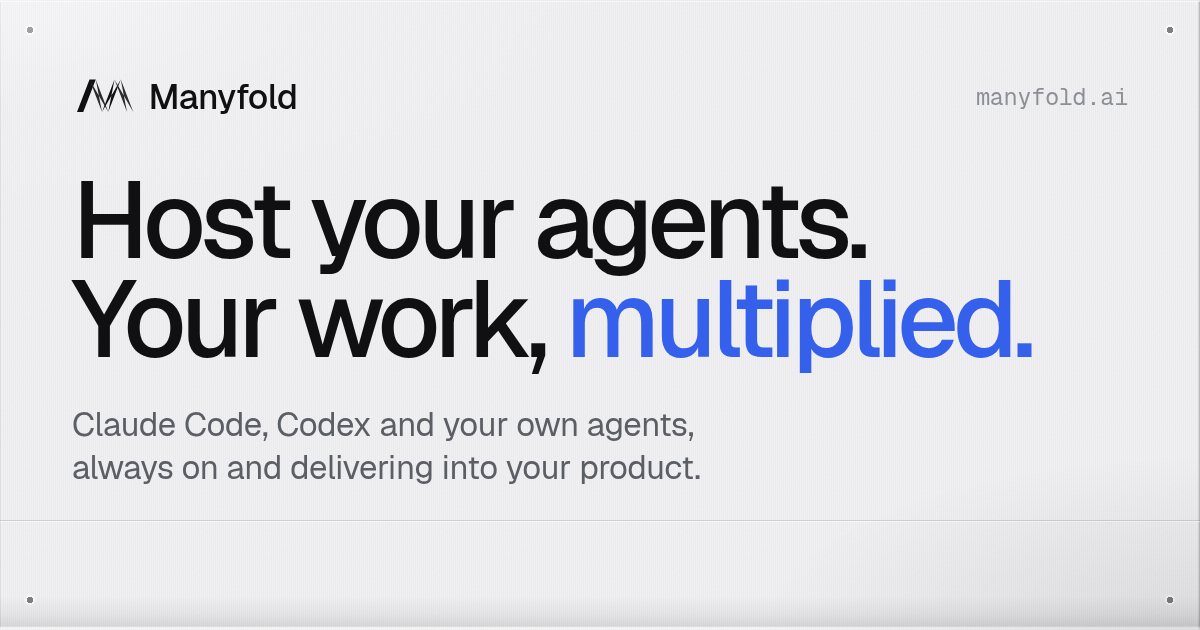
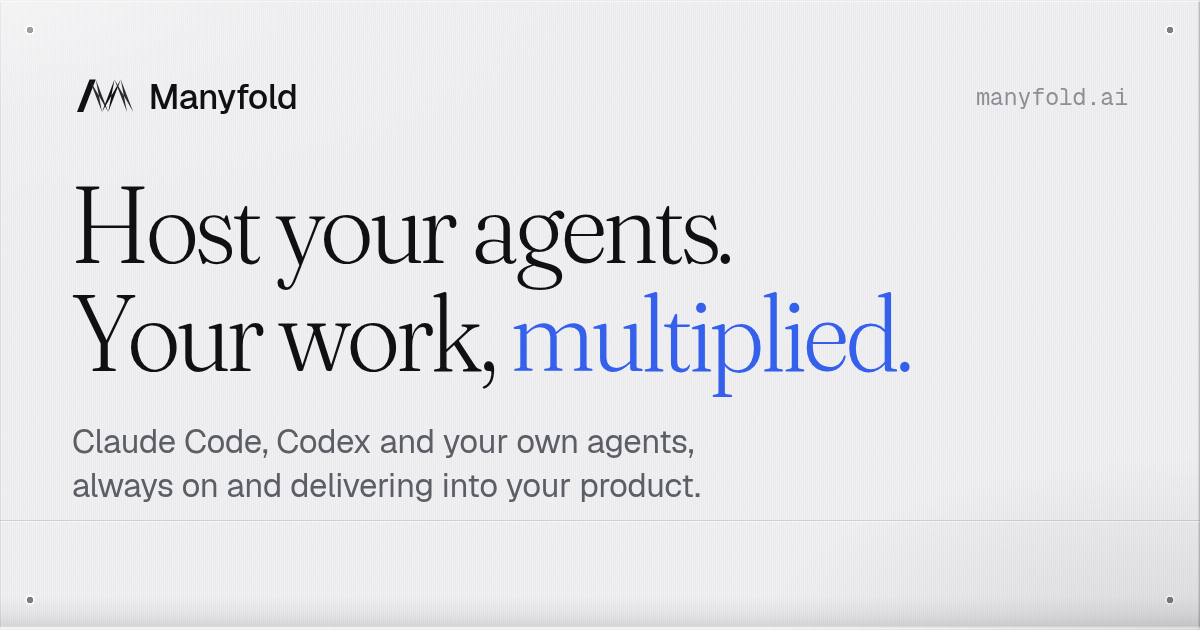
feat(web): land Fraunces as the landing's display face
The spec has said Fraunces since it was written — SOFT 50, WONK 0, weight 300
— but styles.css imported Source Serif 4, and had since the register was
built. A plan was written down and never executed. The two are not the same
kind of serif: Fraunces is a high-contrast display face drawn for large sizes,
Source Serif 4 is a low-contrast text face Adobe drew for screen body copy, so
every rule downstream of that choice was tuned for a face the page did not use.

Loads full.css, not opsz.css: Fraunces carries four axes and this register uses
SOFT, which the narrower file leaves inert with no error. Weight drops to 300,
where a display serif sits at the visual mass a text serif needs 400 for, with
.lp-h3 overridden back to 400 — at 24-29px the thin strokes stop carrying.

The social cards follow, since they reproduce the hero: someone clicking a
shared link must not meet a different face on arrival. The zh card gains a
pinned Noto Serif SC so its headline is a serif too, matching the landing's CJK
fallback rather than staying on the sans it had. Cards ship as v5; v4 never
left this branch, so it is dropped rather than frozen — RETIRED_CARDS is for
URLs a client may actually hold.

FontPin.weight now takes a range, which a variable face has to advertise or the
browser picks the default instance and synthesises the rest.

Source Serif 4 is removed; nothing else used it.

Changed region(s): [[0.0617, 0.2714, 0.8633, 0.6333], [0.0617, 0.6333, 0.5858, 0.8143]]

diff --git a/apps/web/src/styles.css b/apps/web/src/styles.css
@@ -8,11 +8,12 @@
 @import '@fontsource/geist/600.css';
 @import '@fontsource/geist-mono/400.css';
 @import '@fontsource/geist-mono/500.css';
-/* Display register for the landing only (DESIGN.landing.md §2.2). opsz.css
-   carries the optical-size axis, so the hero takes the display cut and card
-   titles the text cut off one file. The family name is 'Source Serif 4
-   Variable' — dropping the suffix falls back to a CJK serif in silence. */
-@import '@fontsource-variable/source-serif-4/opsz.css';
+/* Display register for the landing only (DESIGN.landing.md §2.2). full.css,
+   not opsz.css: Fraunces carries four axes and the register uses SOFT as well
+   as opsz, so the narrower file would leave SOFT inert with no error. The
+   family name is 'Fraunces Variable' — dropping the suffix falls back to a CJK
+   serif in silence. */
+@import '@fontsource-variable/fraunces/full.css';
 
 @tailwind base;
 @tailwind components;
@@ -2208,15 +2209,18 @@ html[data-theme='dark'] .markdown-code-block .hljs-deletion {
 
     /* Display register (DESIGN.landing.md §2.3). Sizes are ladder × family
        factor, so swapping the face later does not mean re-tuning every
-       clamp(). Source Serif 4 is a transitional: vertical stress, flat
-       serifs, terminals that stop rather than curl — the same rationale as
-       the printed world beside it. Weight 400 is not bolding; at matching
-       visual mass this face sits a step lighter than a display serif, and
-       the hero has to win the first fixation against a screened plate. */
+       clamp(). Fraunces is a display serif with an oversized x-height and
+       real modulation — it carries the headline on its own, which is what the
+       hero needs to win the first fixation against a screened plate. SOFT 50
+       rounds the terminals just off the blade, so the face reads warm rather
+       than editorial-severe; WONK stays 0 because its alternate g and italic-
+       leaning forms are a voice this page does not use. Weight 300, not 400:
+       a display serif already sits heavier than a text one at equal mass. */
     --lp-display:
-        'Source Serif 4 Variable', 'Source Han Serif SC', 'Noto Serif SC',
+        'Fraunces Variable', 'Source Han Serif SC', 'Noto Serif SC',
         'Songti SC', 'SimSun', serif;
-    --lp-display-weight: 400;
+    --lp-display-vars: 'SOFT' 50, 'WONK' 0;
+    --lp-display-weight: 300;
     --lp-display-track: -0.018em;
     --lp-display-lh: 1;
     --lp-display-scale: 1;
@@ -2433,6 +2437,7 @@ html[data-theme='dark'] .landing-root {
 .landing-root .lp-price-num {
     font-family: var(--lp-display);
     font-weight: var(--lp-display-weight);
+    font-variation-settings: var(--lp-display-vars);
     letter-spacing: var(--lp-display-track);
     line-height: var(--lp-display-lh);
     font-optical-sizing: auto;
@@ -2576,8 +2581,12 @@ html[data-theme='dark'] .landing-root .lp-eyebrow .lp-dot {
 
 /* Card titles hold at 400 and never drop below 24px: a high-contrast serif
    breaks into grey crumbs at small sizes (T1). */
+/* The one display element that does not take the base weight. At 24-29px a
+   display serif's thin strokes stop carrying: 300 reads as a hairline the
+   hero's 100px can afford and a card title cannot. */
 .landing-root .lp-h3 {
     font-size: calc(clamp(24px, 1.9vw, 29px) * var(--lp-display-scale));
+    font-weight: 400;
     letter-spacing: -0.008em;
     line-height: 1.14;
     color: var(--lp-ink);
@@ -3869,6 +3878,7 @@ html[lang^='zh'] .landing-root .lp-scene-title {
 
 .landing-root .lp-world [data-layer-title] text {
     font-family: var(--lp-display);
+    font-variation-settings: var(--lp-display-vars);
     font-size: 14px;
     font-weight: 500;
     letter-spacing: -0.01em;

diff --git a/apps/web/scripts/og/fonts.ts b/apps/web/scripts/og/fonts.ts
@@ -19,7 +19,10 @@ import { repoRoot, installedFile } from './paths'
 
 export interface FontPin {
     family: string
-    weight: number
+    // A range ('100 900') for a variable face: @font-face has to advertise the
+    // wght axis, or the browser picks the default instance and synthesises the
+    // rest, which on a display serif shows as smeared stems.
+    weight: number | string
     sha256: string
     // A workspace dependency, or a pinned upstream file fetched on demand.
     source:
@@ -28,6 +31,25 @@ export interface FontPin {
 }
 
 export const FONT_PINS: readonly FontPin[] = [
+    {
+        family: 'Fraunces Variable',
+        weight: '100 900',
[1 lines of base64/hex data omitted]
+        source: {
+            kind: 'package',
+            file: '@fontsource-variable/fraunces/files/fraunces-latin-full-normal.woff2'
+        }
+    },
+    {
+        family: 'Noto Serif SC',
+        weight: 400,
[1 lines of base64/hex data omitted]
+        source: {
+            kind: 'remote',
+            url: 'https://cdn.jsdelivr.net/npm/@fontsource/noto-serif-sc@5.3.0/files/noto-serif-sc-chinese-simplified-400-normal.woff2',
+            cache: 'noto-serif-sc-chinese-simplified-400-normal.woff2'
+        }
+    },
     {
         family: 'Geist',
         weight: 400,
@@ -78,7 +100,7 @@ export const FONT_PINS: readonly FontPin[] = [
 ]
 
 // Latin-only locales do not pay for the 1.1MB CJK faces.
-export const LATIN_FAMILIES = ['Geist', 'Geist Mono']
+export const LATIN_FAMILIES = ['Geist', 'Geist Mono', 'Fraunces Variable']
 
 export const fontsForLocale = (locale: 'en' | 'zh'): readonly FontPin[] =>
     locale === 'zh'

diff --git a/apps/web/scripts/og/poster.css b/apps/web/scripts/og/poster.css
@@ -238,9 +238,15 @@ body {
 .p-h1 {
     margin: 0;
     font-size: 108px;
-    font-weight: 500;
-    line-height: 0.92;
-    letter-spacing: -0.05em;
+    /* The landing's display register, verbatim (DESIGN.landing.md §2.2): the
+       card reproduces its hero, so a reader who clicks through must not meet a
+       different face. Only the CJK fallback is shorter — the render pins Noto
+       Serif SC and nothing before it. */
+    font-family: 'Fraunces Variable', 'Noto Serif SC';
+    font-weight: 300;
+    font-variation-settings: 'SOFT' 50, 'WONK' 0;
+    line-height: 1;
+    letter-spacing: -0.018em;
     color: var(--lp-ink);
 }
 

diff --git a/apps/web/src/seo/head.ts b/apps/web/src/seo/head.ts
@@ -12,8 +12,8 @@ import { tForLanguage } from '@manyfold/i18n'
 // exporter live in apps/web/scripts/og; these paths must match POSTER_VERSION
 // there, and `pnpm social-card:check` fails while they disagree.
 export const OG_IMAGE_PATH: Record<SeoPageEntry['language'], string> = {
-    en: '/social/manyfold-og-v4.png',
-    zh: '/social/manyfold-og-zh-v4.png'
+    en: '/social/manyfold-og-v5.png',
+    zh: '/social/manyfold-og-zh-v5.png'
 }
 export const ORG_LOGO_PATH = '/social/manyfold-logo-512.png'
 

diff --git a/apps/web/scripts/og/poster.ts b/apps/web/scripts/og/poster.ts
@@ -30,7 +30,7 @@ export const HTML_LANG: Record<PosterLocale, string> = {
 // fails until they agree. Changed bytes are always a bump: a retired version
 // keeps its own filename and its own bytes, because clients cache by URL and
 // rewriting one is a lie.
-export const POSTER_VERSION = 'v4'
+export const POSTER_VERSION = 'v5'
 
 export const posterFile = (locale: PosterLocale): string =>
     locale === 'en'

diff --git a/apps/web/DESIGN.landing.md b/apps/web/DESIGN.landing.md
@@ -277,7 +277,7 @@ landing 的真身在 `oss/`（公共仓库 `manyfold-open/manyfold`）。按 `AG
 
 | 家族                      | 何时用                                                                                                          |
 | ------------------------- | --------------------------------------------------------------------------------------------------------------- |
-| `Source Serif 4 Variable` | 只有 hero、分区标题、故事卡标题、大数字、引文。**≥24px 才允许出现。**                                           |
+| `Fraunces Variable`       | 只有 hero、分区标题、故事卡标题、大数字、引文。**≥24px 才允许出现。**                                           |
 | `Geist`                   | 其余一切：lead、正文、按钮、导航、标签、表头、徽章。字重只用 400 / 500。                                        |
 | `Geist Mono`              | 技术信号（框架名、runtime 状态、CLI、路径、hex）、eyebrow、表格数字，外加一个新职务：**Fieldwork 的字形字体**。 |
 
@@ -285,44 +285,30 @@ landing 的真身在 `oss/`（公共仓库 `manyfold-open/manyfold`）。按 `AG
 
 ### 2.2 字体加载
 
-**已落地：Source Serif 4，字重 400，opsz 轴交给浏览器。**
+**已落地：Fraunces，字重 300，`SOFT` 50 / `WONK` 0，opsz 轴交给浏览器。**
 
-> **这一节曾经写的是 Fraunces（SOFT 50 / WONK 0 / 字重 300），与实现不符。** 那是一份未落地的早期方案；`styles.css:15` 导入的一直是 Source Serif 4，`package.json` 里也只有它。以此为准。两者不是同一类衬线，差别会传导到下面每一条规则：Fraunces 是高对比 display serif（细笔画极细，为大字号设计），Source Serif 4 是 Adobe 为**屏幕正文**设计的过渡型衬线，笔画对比低、x 高度大。
+> **这一节曾经与实现不符，方向相反。** 规范一直写的是 Fraunces，`styles.css` 导入的却是 Source Serif 4 —— 一份写下了但没落地的方案。二者不是同一类衬线：Fraunces 是高对比 display serif（细笔画极细，为大字号设计），Source Serif 4 是 Adobe 为屏幕正文设计的过渡型衬线，笔画对比低、x 高度大。现已按规范落地 Fraunces；本节以下为实现。
 
 ```bash
-pnpm --filter @manyfold/web add @fontsource-variable/source-serif-4
+pnpm --filter @manyfold/web add @fontsource-variable/fraunces
 ```
 
 ```css
 /* styles.css 顶部，紧跟现有的 geist 导入 */
-@import '@fontsource-variable/source-serif-4/opsz.css';
+@import '@fontsource-variable/fraunces/full.css';
 ```
 
 三个必须知道的实现细节：
 
-1. **family 名是 `'Source Serif 4 Variable'`，不是 `'Source Serif 4'`。** 写错了会静默回退到 CJK 宋体 —— 中文页面上完全看不出来，英文页面上才暴露。
-2. **必须用 `opsz.css`。** 它带光学尺寸轴，所以 hero（clamp 上限 100px）自动取到高对比的 display 切，卡片标题（26px）取到笔画更稳的正文切 —— 一支字两种表现，不用手动分配。配 `font-optical-sizing: auto`；一旦在 `font-variation-settings` 里显式写 `'opsz'`，`auto` 就失效。
-3. **不要写 `font-variation-settings`。** Source Serif 4 只有 `opsz` 与 `wght` 两轴，**没有 `SOFT` / `WONK`** —— 那是 Fraunces 的轴。写上去是静默无效的，肉眼几乎察觉不到，这个坑已经踩过一次。
+1. **family 名是 `'Fraunces Variable'`，不是 `'Fraunces'`。** 写错了会静默回退到 CJK 宋体 —— 中文页面上完全看不出来，英文页面上才暴露。
+2. **必须用 `full.css`，不是 `opsz.css`。** Fraunces 有四条轴，这个语域用到 `SOFT`；`opsz.css` 只带光学尺寸与字重两轴，`SOFT` 会静默失效而不报错。`full.css` 同样带 opsz，所以 hero（clamp 上限 100px）自动取到高对比的 display 切、卡片标题（≥24px）取到笔画更稳的正文切 —— 配 `font-optical-sizing: auto`；一旦在 `font-variation-settings` 里显式写 `'opsz'`，`auto` 就失效。
+3. **必须写 `font-variation-settings: 'SOFT' 50, 'WONK' 0`。** 这两条是 Fraunces 的非默认轴，不写就拿不到：`SOFT` 把末端从刀锋磨圆一点，字面读起来是"暖"而不是"编辑部式的锐"；`WONK` 归零是因为它那套异体 g 和倾斜字形是本页不用的一种腔调。轴名区分大小写。
 
 **斜体不加载。** 整个 landing 只有引文 `.lp-quote` 会用到斜体，而它目前没有任何调用点。
 
-字体预算：latin 子集 normal **119KB**。latin-ext / vietnamese 子集有独立的 `unicode-range`，只在页面真的出现那些字符时才下载。
+字体预算：latin 全轴子集 **121KB**（`fraunces-latin-full-normal.woff2`）。latin-ext / vietnamese 子集有独立的 `unicode-range`，只在页面真的出现那些字符时才下载。
 
-Tailwind 侧加一个 family：
-
-```ts
-// tailwind.config.ts
-fontFamily: {
-    display: [
-        'Source Serif 4 Variable',
-        'Source Han Serif SC',
-        'Noto Serif SC',
-        'Songti SC',
-        'SimSun',
-        'serif'
-    ]
-}
-```
+**Tailwind 侧不加 family。** display 语域只经 `--lp-display` 这一个 CSS 变量走，`tailwind.config.ts` 里没有也不需要 `fontFamily.display` —— 多一处定义就多一处会漂的地方。
 
 ### 2.3 族参数 token
 
@@ -331,18 +317,19 @@ fontFamily: {
 ```css
 .landing-root {
     --lp-display:
-        'Source Serif 4 Variable', 'Source Han Serif SC', 'Noto Serif SC',
+        'Fraunces Variable', 'Source Han Serif SC', 'Noto Serif SC',
         'Songti SC', 'SimSun', serif;
-    --lp-display-weight: 400;
+    --lp-display-vars: 'SOFT' 50, 'WONK' 0;
+    --lp-display-weight: 300;
     --lp-display-track: -0.018em;
     --lp-display-lh: 1;
     /* 同一个视觉分量，不同字面需要不同的实际字号：x 高度大的族要调小，
-       纤细族要调大。Source Serif 4 取 1。 */
+       纤细族要调大。Fraunces 取 1。 */
     --lp-display-scale: 1;
 }
 ```
 
-**没有 `--lp-display-vary`。** Source Serif 4 没有可钉的额外轴（§2.2 第 3 条）。
+**`--lp-display-vars` 与家族同级。** 换字体时轴设定必须跟着换 —— 把 Fraunces 的 `SOFT` 留给一支没有这条轴的字体，是静默失效（§2.2 第 3 条）。
 
 所有 display 元素统一：
 
@@ -365,18 +352,18 @@ fontFamily: {
 
 ### 2.4 Display 阶梯
 
-字号阶梯与实现一致；**字重 / tracking / lh 以下表为准**（本节原先记的 300 / -0.014em / 0.98 属于那份未落地的 Fraunces 方案）：
+字号阶梯与实现一致；**字重 / tracking / lh 以下表为准**：
 
 | 角色       | 类                               | 字号                                                        | 字重       | tracking | lh   |
 | ---------- | -------------------------------- | ----------------------------------------------------------- | ---------- | -------- | ---- |
-| Hero       | `.lp-h1`                         | `calc(clamp(46px, 6.6vw, 100px) * var(--lp-display-scale))` | 400        | -0.018em | 1    |
-| 分区标题   | `.lp-h2`                         | `calc(clamp(34px, 4.2vw, 60px) * var(--lp-display-scale))`  | 400        | -0.018em | 1    |
-| 分区标题   | `.lp-h2` ≤720px                  | `clamp(30px, 7vw, 44px)`                                    | 400        | -0.012em | 1    |
+| Hero       | `.lp-h1`                         | `calc(clamp(46px, 6.6vw, 100px) * var(--lp-display-scale))` | 300        | -0.018em | 1    |
+| 分区标题   | `.lp-h2`                         | `calc(clamp(34px, 4.2vw, 60px) * var(--lp-display-scale))`  | 300        | -0.018em | 1    |
+| 分区标题   | `.lp-h2` ≤720px                  | `clamp(30px, 7vw, 44px)`                                    | 300        | -0.012em | 1    |
 | 故事卡标题 | `.lp-h3`                         | `calc(clamp(24px, 1.9vw, 29px) * var(--lp-display-scale))`  | 400        | -0.008em | 1.14 |
-| 大数字     | `.lp-price-num` / `.lp-step-num` | 现值不动                                                    | 400        | -0.018em | 1    |
+| 大数字     | `.lp-price-num` / `.lp-step-num` | 现值不动                                                    | 300        | -0.018em | 1    |
 | 引文       | 新 `.lp-quote`                   | `clamp(22px, 2vw, 28px)`                                    | 400 italic | 0        | 1.35 |
 
-**字重全档统一 400，不再分 300 / 400。** Source Serif 4 的 300 在任何 display 尺寸上都撑不住，而它的 400 本身就比 Fraunces 的 400 轻。
+**字重 300，卡片标题除外。** Fraunces 是 display serif，同一个数值上它比正文衬线重一档；hero 在 100px 上要的是笔画的对比而不是分量，300 给的正是这个。唯一的例外是 `.lp-h3`：24–29px 上 300 的细笔画已经撑不住，`styles.css` 单独把它覆盖成 400。
 
 **斜体只在引文里出现，别处一律没有。** 引文是"另一个人在说话"，换字形是它的本义；标题里的强调是同一个人加重语气，换字形就跑题了。CJK 引文同样不用斜体（宋体没有真斜体），改用左侧一条 `--lp-info` 竖线。
 
@@ -1095,7 +1082,7 @@ DOM 形状：
 
 ## 12. 后续
 
-1. ~~**webapp** —— 产品语域换 Iris + 中性底。~~ **已落地。** 产品固定每个 token 的相对亮度、在本文 §1.2 的冷偏曲线上重解色相，hover δ 契约自动守恒；判定色取本文的色相彩度、按产品的 AA 需求重解亮度。**「产品不引入衬线」维持原判**：曾试过把 Source Serif 4 接到产品的 `text-display` / `text-h1`，随后撤回 —— 工作面的标题是被扫读的，衬线在那里拖慢扫读；这支字留在 landing。
+1. ~~**webapp** —— 产品语域换 Iris + 中性底。~~ **已落地。** 产品固定每个 token 的相对亮度、在本文 §1.2 的冷偏曲线上重解色相，hover δ 契约自动守恒；判定色取本文的色相彩度、按产品的 AA 需求重解亮度。**「产品不引入衬线」维持原判**：曾试过把 衬线接到产品的 `text-display` / `text-h1`，随后撤回 —— 工作面的标题是被扫读的，衬线在那里拖慢扫读；这支字留在 landing。
 2. ~~**docs**~~ **已落地**，与 webapp 同版同值（Tailwind 4 的 `@theme` 要求完整 `rgb()`，数值相同）。docs 自有的几个 token（`--color-ink-soft`、半透明 `--color-divider`、深色更暗的 `muted` / `subtle`）是有意分歧，`DESIGN.md` §4.4 末尾列了。
 3. **Fieldwork 进 webapp** —— §3.9 的五个落点。sigil 替换头像会碰到全站 avatar，需要单独评估。
 4. **文档合并** —— 两个语域的阴影解剖、状态矩阵、运动、链接规则已逐字趋同，本文 §1.5 / §5.5 / §6.1 / §6.3 可以并回 `DESIGN.md` 只留差异。等迁移跑过一到两个发布周期再做，单独一个纯文档 PR。

diff --git a/apps/web/DESIGN.md b/apps/web/DESIGN.md
@@ -64,7 +64,7 @@ These tokens are not standalone surfaces — never paint a region in `--color-so
 
 **The chat composer floats on the canvas, not on a shelf.** The composer card uses `--color-surface`, but the strip around the composer (`.chat-composer-dock`) is transparent — the chat canvas shows through. Painting a separate tinted band around the input fractures the page into two surfaces and breaks the volume hierarchy. The composer's milled-chassis shadow (§7.2) is what separates it from the canvas, not a background fill.
 
-**There is no display face in the product.** Every rung is Geist, with Geist Mono for technical signal (§5). Landing's serif (`.lp-h*`, Source Serif 4) is a marketing register and does not cross into the workbench or docs — a page title here is `text-h1` in Geist.
+**There is no display face in the product.** Every rung is Geist, with Geist Mono for technical signal (§5). Landing's serif (`.lp-h*`, Fraunces) is a marketing register and does not cross into the workbench or docs — a page title here is `text-h1` in Geist.
 
 ## 3. Implementation contract
 
@@ -211,7 +211,7 @@ Two families, each with one job:
 | `Geist`      | All UI text — every heading rung, body, labels, controls. Every page.                                                                                                                                                |
 | `Geist Mono` | **Only** technical signal: agent IDs, framework names, runtime status, code, CLI, container names, paths, hex values. Not timestamps, not labels, not body copy — if everything is mono, nothing reads as technical. |
 
-The serif landing sets its headlines in (`Source Serif 4`, `.lp-h*`) is deliberately **not** used here. A workbench is read for hours at close range and its headings are scanned, not read; the product carries hierarchy with size, tracking, colour and space, in one sans family. The face is still loaded globally by `styles.css` because landing needs it — that is not an invitation.
+The serif landing sets its headlines in (`Fraunces`, `.lp-h*`) is deliberately **not** used here. A workbench is read for hours at close range and its headings are scanned, not read; the product carries hierarchy with size, tracking, colour and space, in one sans family. The face is still loaded globally by `styles.css` because landing needs it — that is not an invitation.
 
 ### Type scale
 

diff --git a/.changeset/landing-fraunces.md b/.changeset/landing-fraunces.md
@@ -1,0 +1,26 @@
+---
+'@manyfold/web': minor
+---
+
+Land Fraunces as the landing's display face.
+
+The spec has said Fraunces since it was written — SOFT 50, WONK 0, weight 300
+— but `styles.css` imported Source Serif 4, and had since the register was
+built. A plan was written down and never executed, and the two are not the
+same kind of serif: Fraunces is a high-contrast display face drawn for large
+sizes, Source Serif 4 is a low-contrast text face Adobe drew for screen body
+copy. Every rule downstream of that choice — weight, tracking, the optical
+size cut a heading lands on — was tuned for a face the page was not using.
+
+The page now loads `@fontsource-variable/fraunces/full.css`, not `opsz.css`:
+Fraunces carries four axes and this register uses SOFT, which the narrower
+file would leave inert with no error. Weight drops to 300, which is where a
+display serif sits at the same visual mass a text serif needs 400 for, with
+`.lp-h3` overridden back to 400 — at 24-29px the thin strokes stop carrying.
+
+The social cards follow, since they reproduce the hero: someone who clicks a
+shared link must not meet a different face on arrival. The zh card gains a
+pinned Noto Serif SC so its headline is a serif too, matching the landing's
+CJK fallback rather than staying on the sans it had. Cards ship as v5.
+
+Source Serif 4 is removed; nothing else used it.

diff --git a/.changeset/social-cards-iris.md b/.changeset/social-cards-iris.md
@@ -16,7 +16,7 @@ metal gradient when the landing went flat; the poster kept reproducing it,
 including a gradient stop (`#d6e0e8`) that belonged to no palette. It now
 paints flat `--lp-info`, as the page does.
 
-Cards ship as v4. v3 is frozen into `RETIRED_CARDS`, so a link shared before
+Cards ship as v5. v3 is frozen into `RETIRED_CARDS`, so a link shared before
 this still resolves to the exact bytes it was shared with.
 
 The colours in both cards are still written literally rather than imported —
